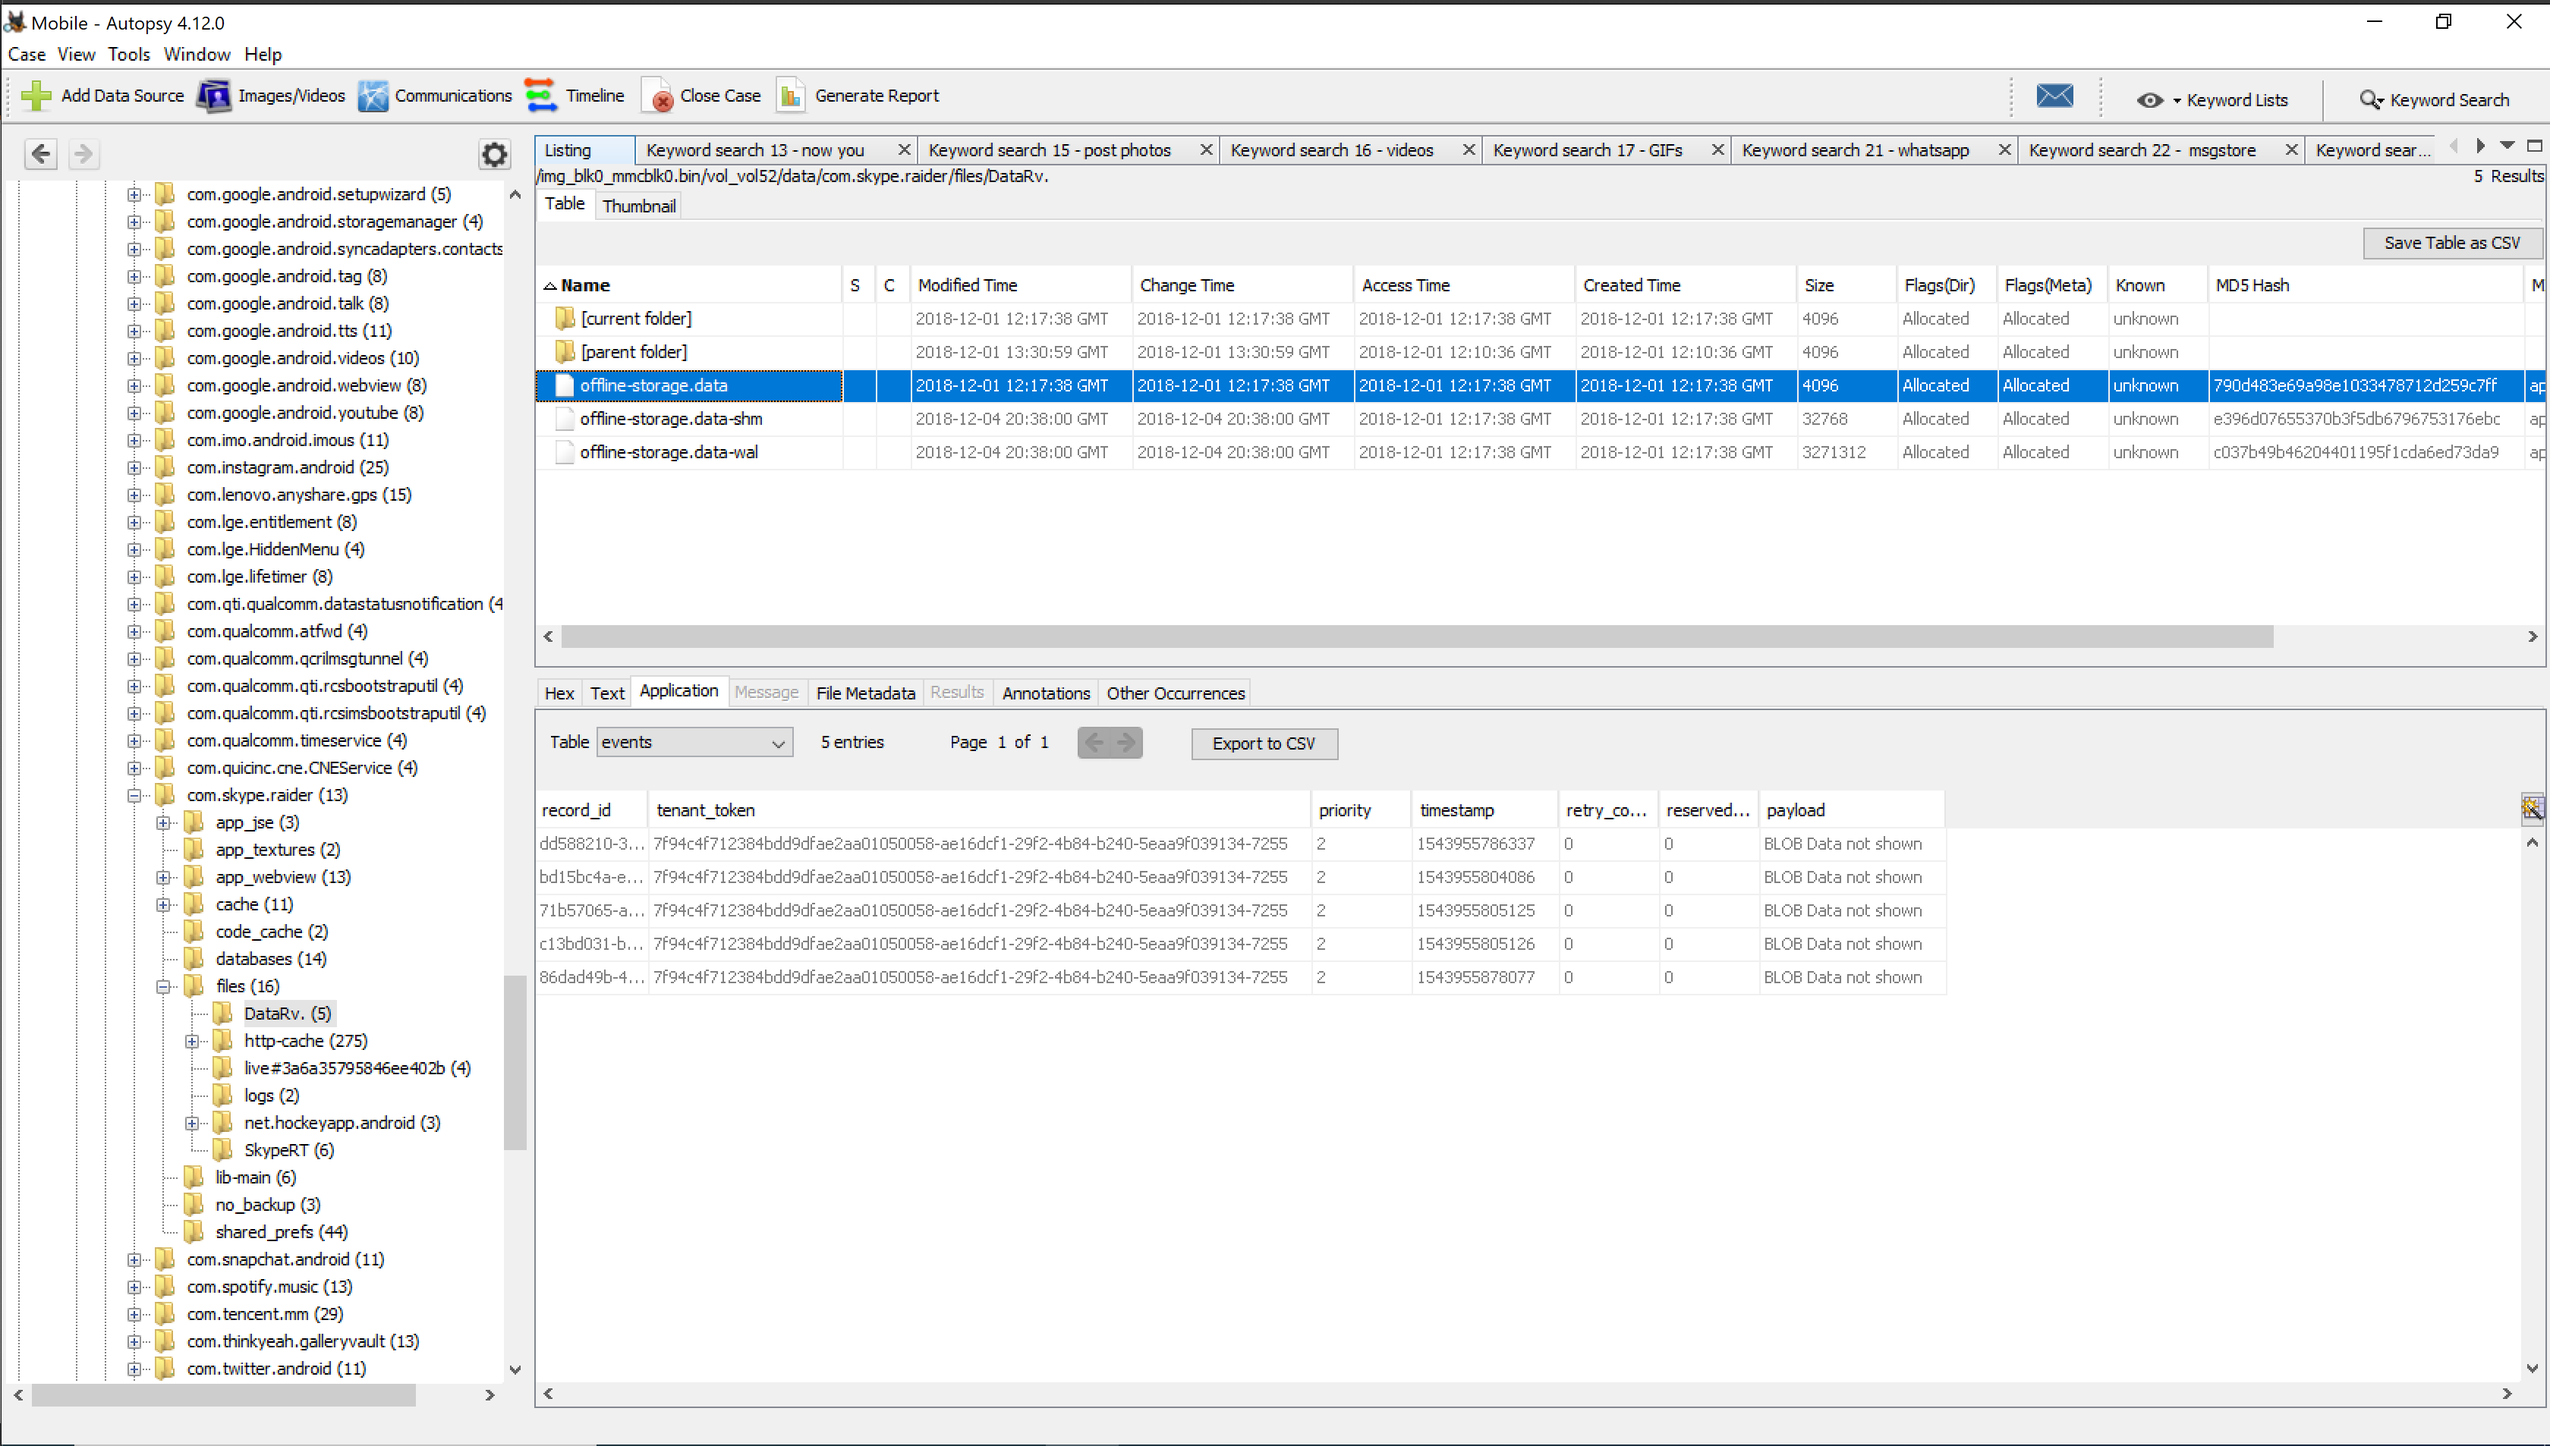
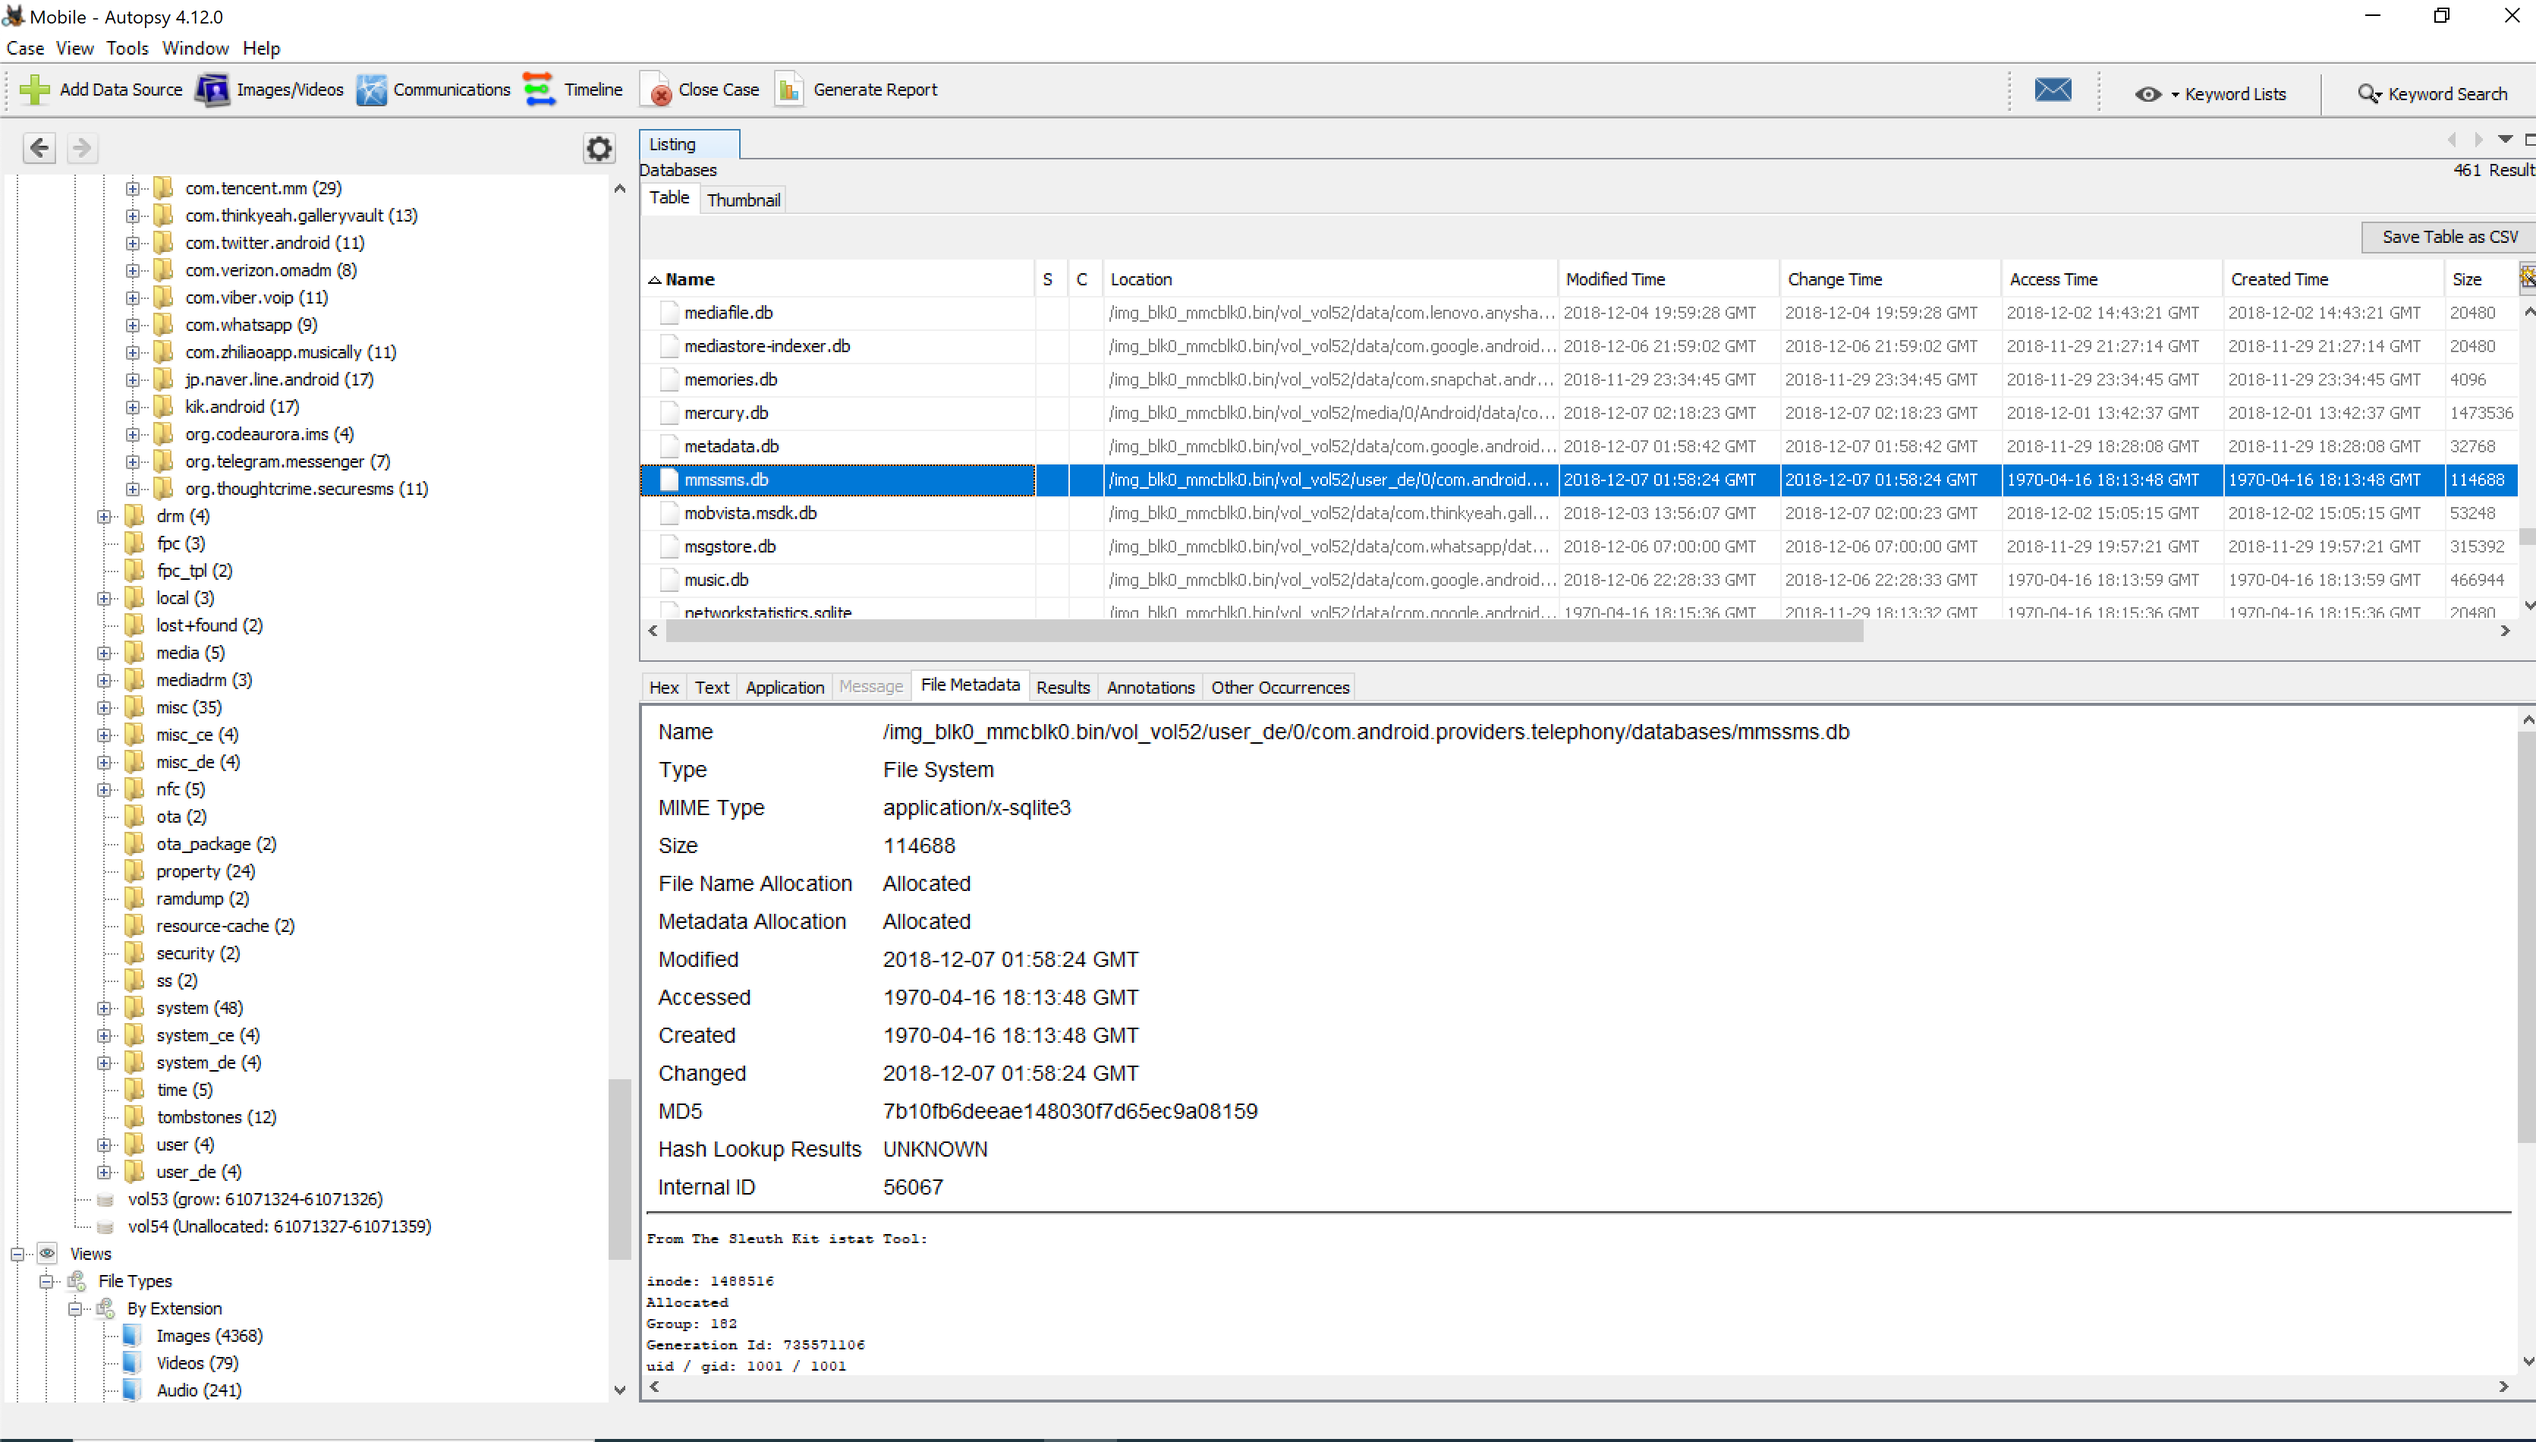
Update Digital Forensics

Changed region(s): [[0.0, 0.0, 1.0, 1.0], [0.6535, 0.5589, 0.7469, 0.6832], [0.5601, 0.5589, 0.6224, 0.6832]]

diff --git a/_posts/2019-12-19-Digital Forensics.md b/_posts/2019-12-19-Digital Forensics.md
@@ -727,7 +727,7 @@ In practice, I didn't find a database file named `main.db` but we can find the r
 
 Most forensic examiners know to look at the MMSSMS.db for SMS/MMS data on almost any device. Android devices typically store this data in the telephony folder here:
 
-`*data/data/com.android.providers.telephony/databases/mmssms.db`
+` vol_vol52/user_de/0/com.android.providers.telephony/databases/mmssms.db `
 
 ![13](/Pictures/Digital Forensics/Mobile Forensics/13.png)
 
